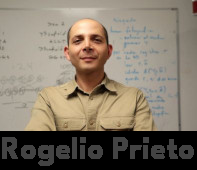
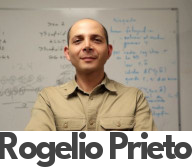
added minor changes

diff --git a/about.md b/about.md
@@ -11,7 +11,7 @@ I hope this helps you save time and learn!
 
 | | |
 |:--:|:--:|
-| ![](https://raw.githubusercontent.com/rogelioprieto/linux-tips/master/_posts/images-all/avatar-rpa.jpg) | Rogelio Prieto | 
+| ![](https://raw.githubusercontent.com/rogelioprieto/linux-tips/master/_posts/images-all/avatar-rpa-letters.png) | Rogelio Prieto | 
 
 ___
 
